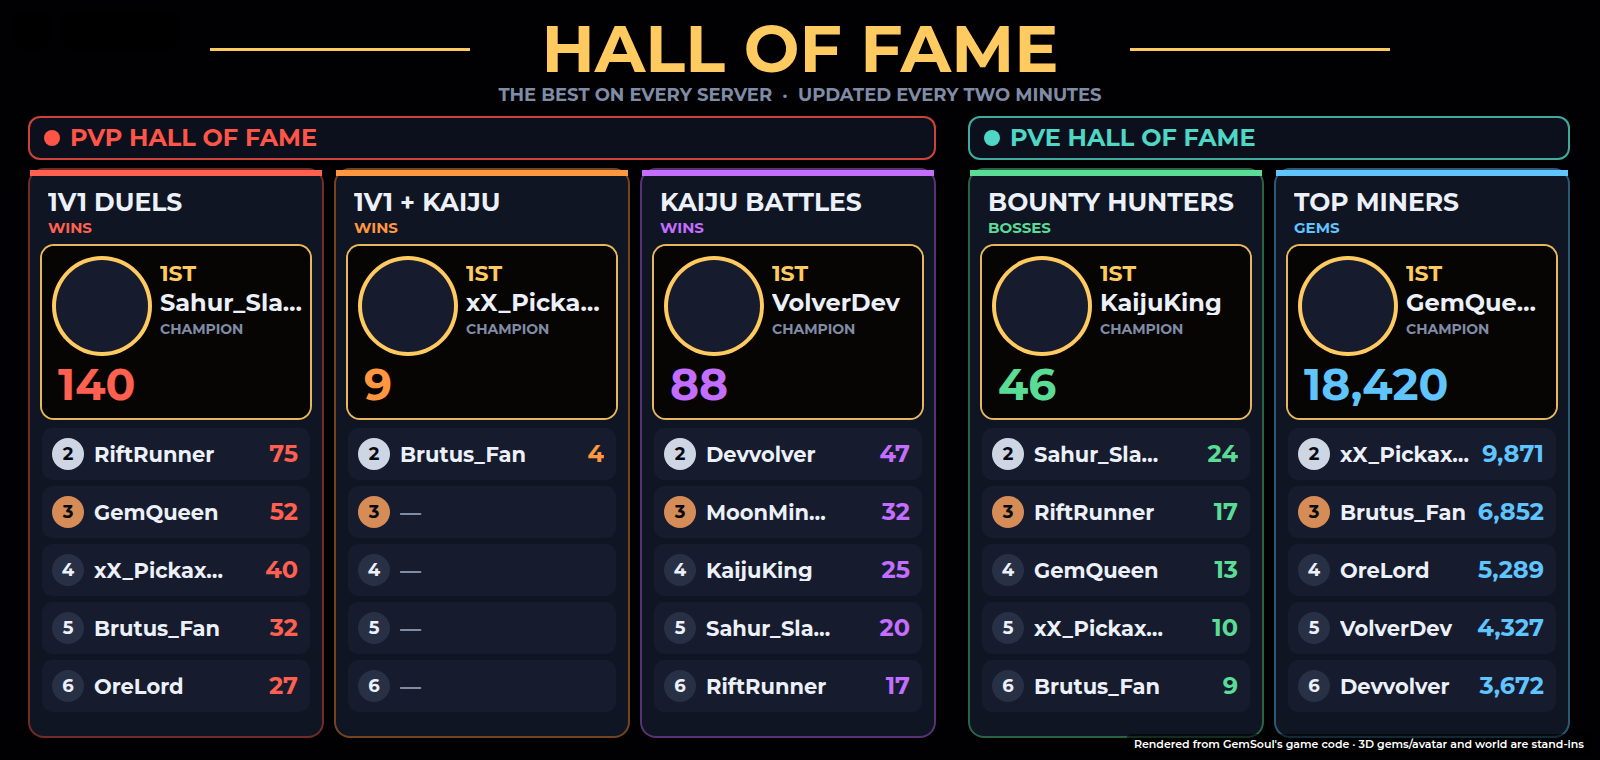
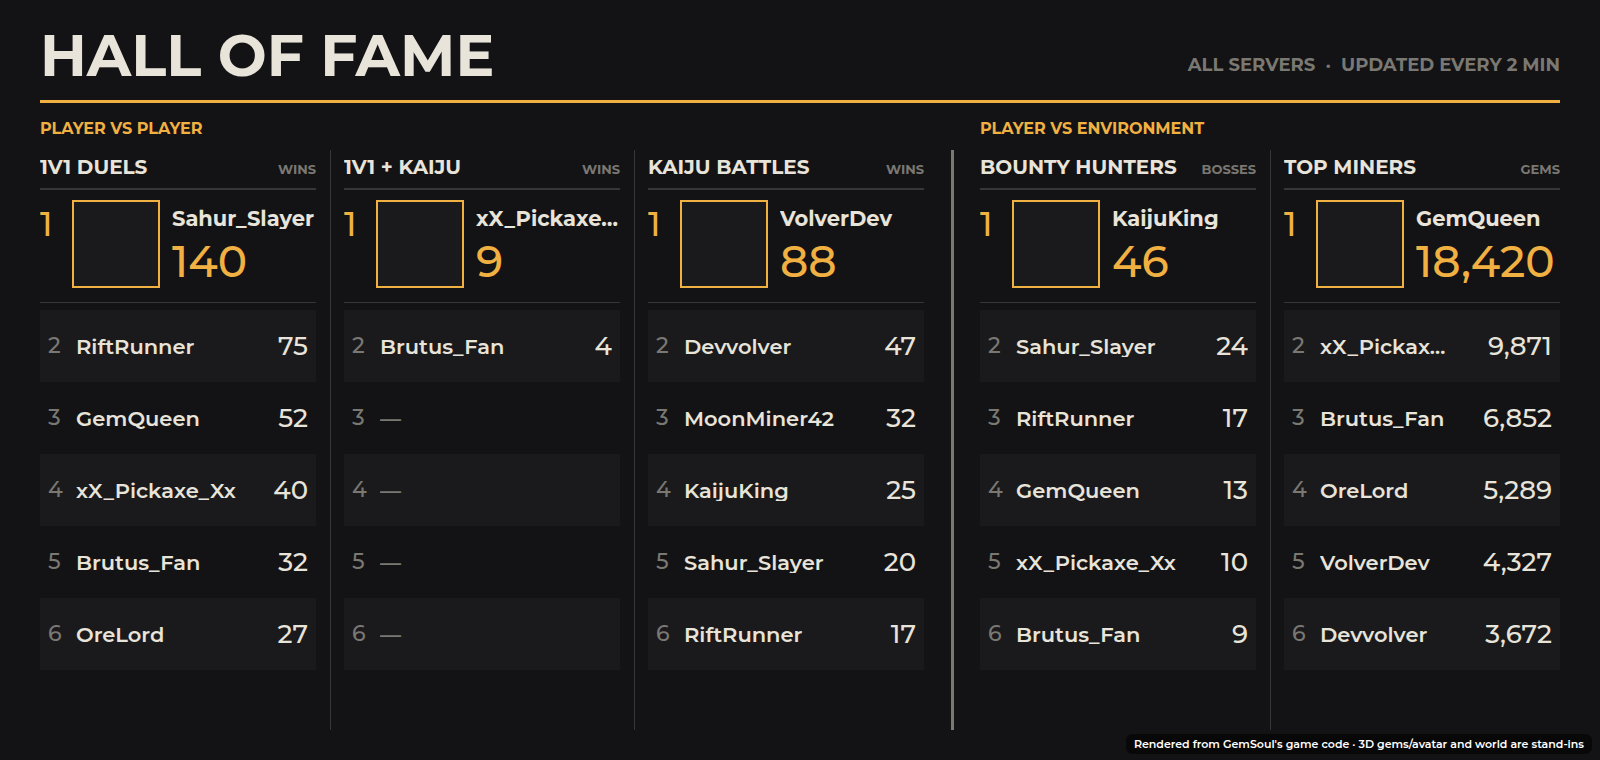
Hall of Fame: a plain results board instead of rainbow neon cards
- Redrawn like a stadium's results board: dark, one amber accent, square
  photos, tabular figures, thin rules between columns. No five rainbow
  column colours, rounded cards, CHAMPION badges or gold title rules.
- The halves read PLAYER VS PLAYER / PLAYER VS ENVIRONMENT; the title on
  the left, where it's from on the right.
- The wall round it: a steel frame, plain steel pylons with caged work
  lamps (the red and teal neon strips are gone).
- Test: the board stays plain (no rounded corners, at most three text
  colours). Spanish; docs and the board picture.

Claude-Session: https://claude.ai/code/session_01M9AaiFqQ2dWL5tTu8tuKaL

diff --git a/docs/hall-of-fame.md b/docs/hall-of-fame.md
@@ -14,14 +14,22 @@ are stand-ins, not Roblox screenshots.
 
 ![The board, with sample names](hall-of-fame/board.png)
 
+*2026-10-26:* redrawn as a plain results board, like a stadium's: dark,
+one amber accent, square photos, tabular figures and thin rules between
+the columns. Gone: the five rainbow column colours, the rounded neon
+cards, the CHAMPION badges and the gold title rules. The halves are
+**PLAYER VS PLAYER** and **PLAYER VS ENVIRONMENT**, and the wall round it
+is plain steel with two caged work lamps (no red and teal neon pylons).
+The wall picture below is from before this change.
+
 One board, two halves, five columns:
 
 | Half | Column | Counts |
 | --- | --- | --- |
-| **PVP HALL OF FAME** (red) | 1V1 DUELS | ranked 1v1 wins (`Duel.Solo`) |
+| **PLAYER VS PLAYER** | 1V1 DUELS | ranked 1v1 wins (`Duel.Solo`) |
 | | 1V1 + KAIJU | wins in the Kaiju Arena's 1V1 + KAIJU mode (`Stats.MixedWins`; [kaiju-arena.md](kaiju-arena.md#1v1--kaiju)) |
 | | KAIJU BATTLES | Kaiju Arena wins (`Stats.KaijuWins`, counted from this round on) |
-| **PVE HALL OF FAME** (teal) | BOUNTY HUNTERS | Rift bosses slain, every ladder (`RiftBosses`) |
+| **PLAYER VS ENVIRONMENT** | BOUNTY HUNTERS | Rift bosses slain, every ladder (`RiftBosses`) |
 | | TOP MINERS | gems mined in the Outpost (`Stats.GemsMined`, from this round on) |
 
 Each column has its **champion** on top (headshot, name, the number large),
